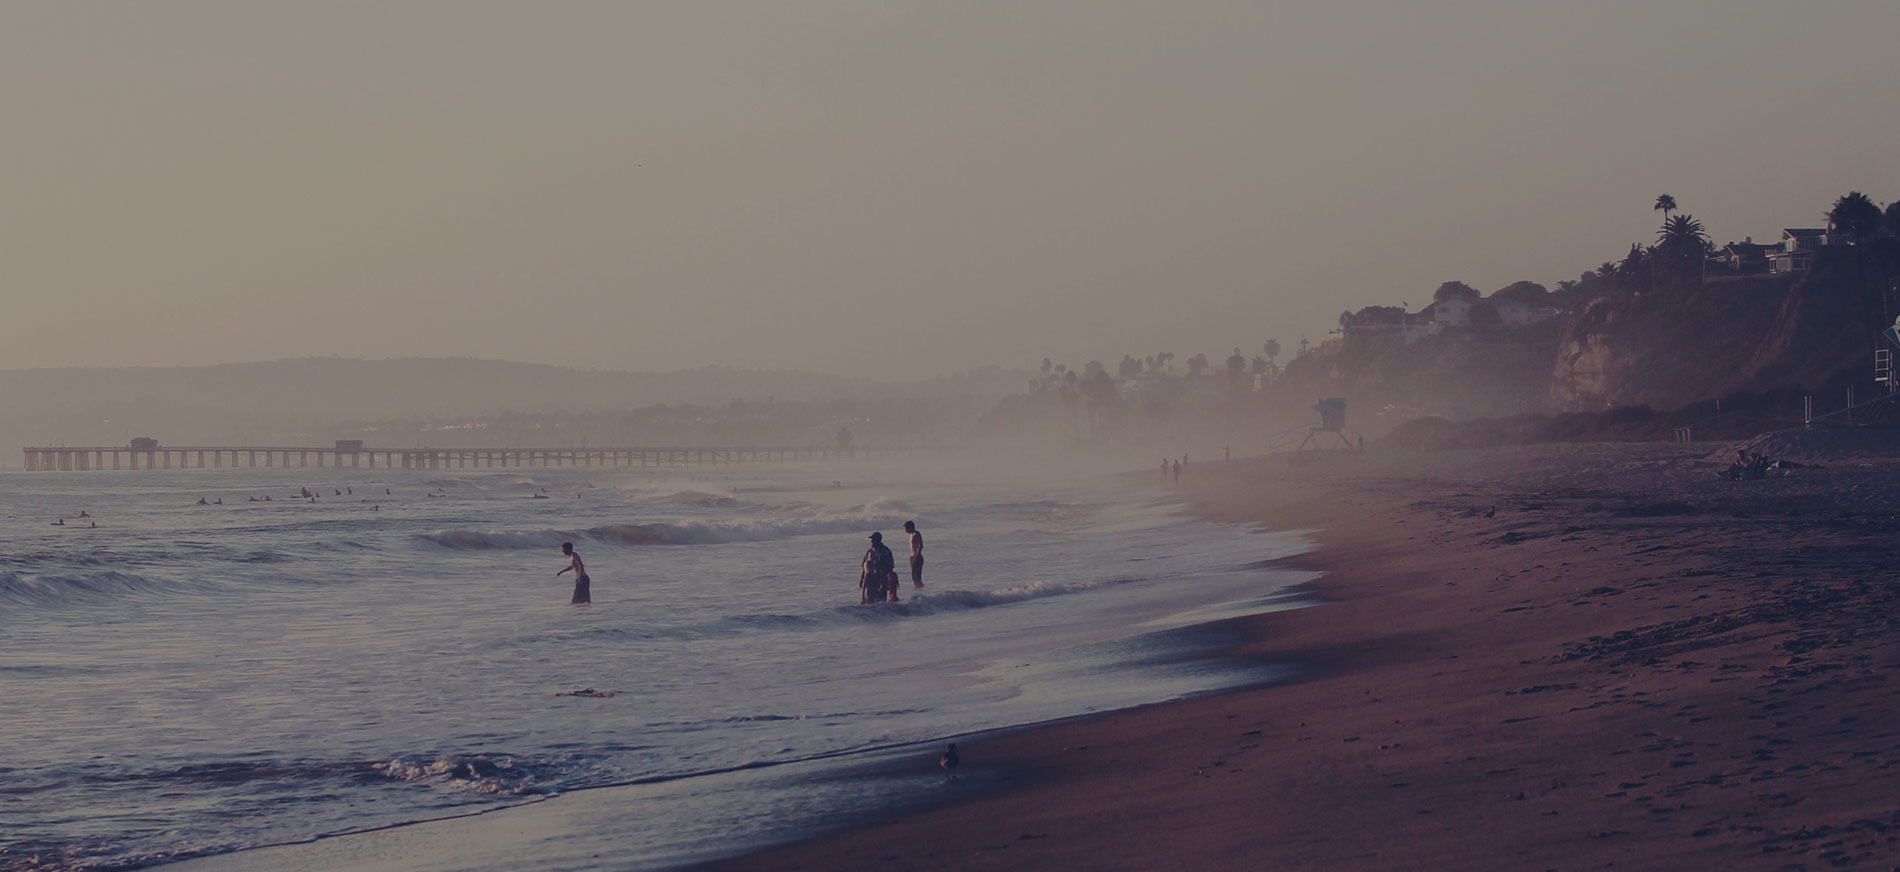
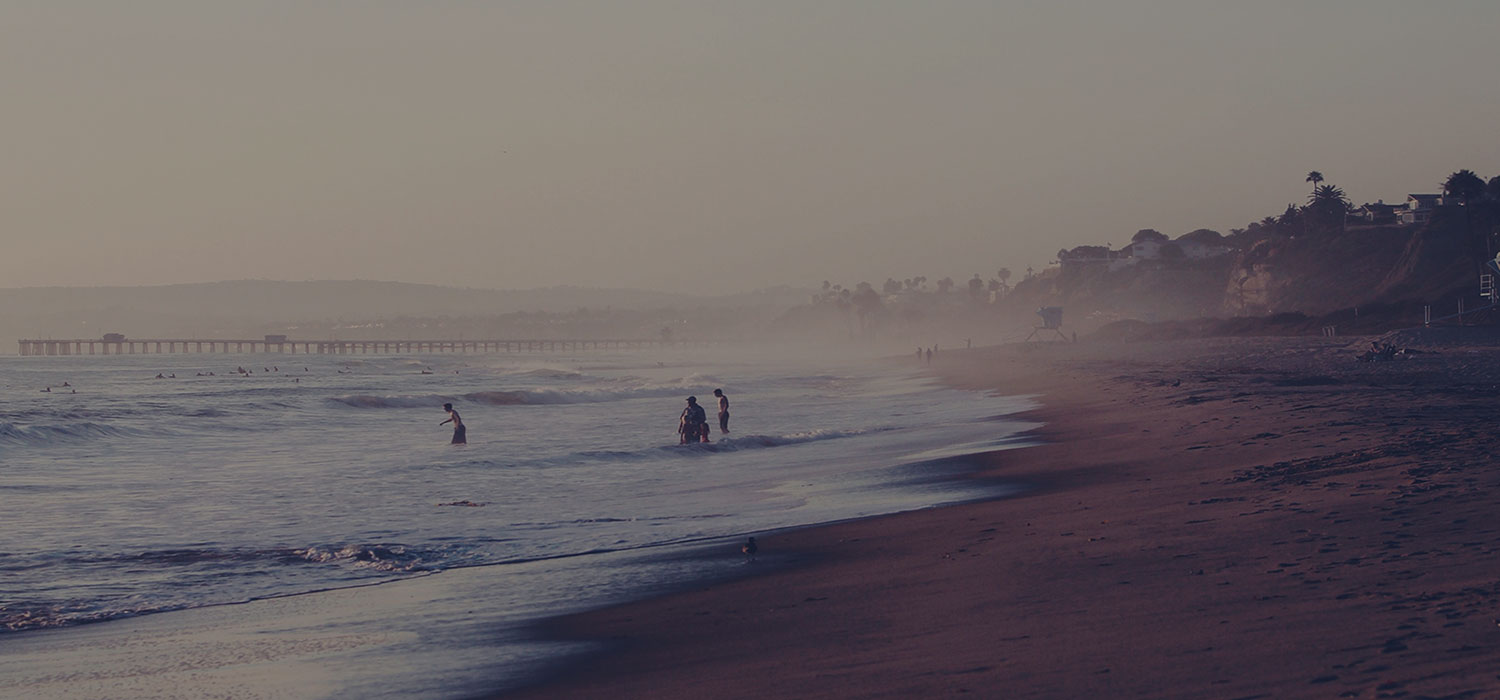
Header img updated

diff --git a/archives.html b/archives.html
@@ -3,7 +3,7 @@ layout: page
 title: Archives
 excerpt: "A year wise archive collection for Milan Aryal"
 description: "A year wise archive collection."
-header-img: "/assets/img/home-bg.jpg"
+header-img: "/assets/img/archives-bg.jpg"
 permalink: /archives/
 redirect_from: /archive/
 ---

diff --git a/contact.html b/contact.html
@@ -2,7 +2,7 @@
 layout: page
 title: "Contact"
 description: "Have questions? I have answers (maybe)."
-header-img: "/assets/img/home-bg.jpg"
+header-img: "/assets/img/contact-bg.jpg"
 permalink: "/contact/"
 ---
 

diff --git a/404.html b/404.html
@@ -1,5 +1,6 @@
 ---
 layout: null
+header-img: "/assets/img/404-bg.jpg"
 ---
 
 <!DOCTYPE html>

diff --git a/about.md b/about.md
@@ -3,7 +3,7 @@ layout: page
 title: "About"
 description: "This is what I do."
 excerpt: "My name is Milan Aryal and I'm a student living in Kathmandu, Nepal who loves designing the web and listening music a lot."
-header-img: "/assets/img/home-bg.jpg"
+header-img: "/assets/img/about-bg.jpg"
 permalink: /about/
 ---
 
